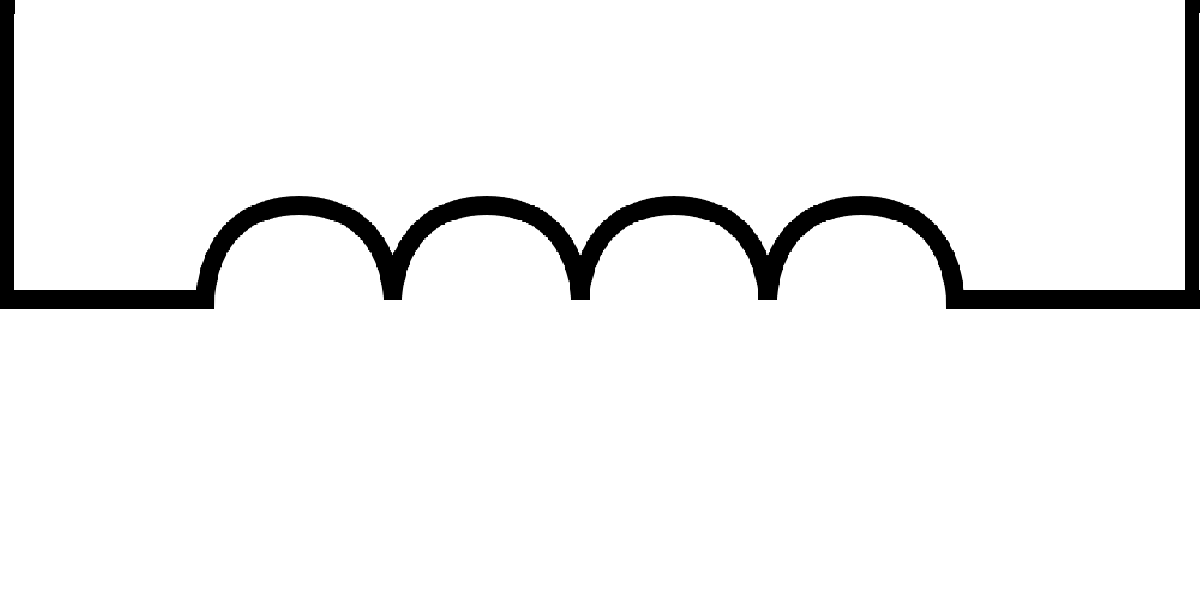
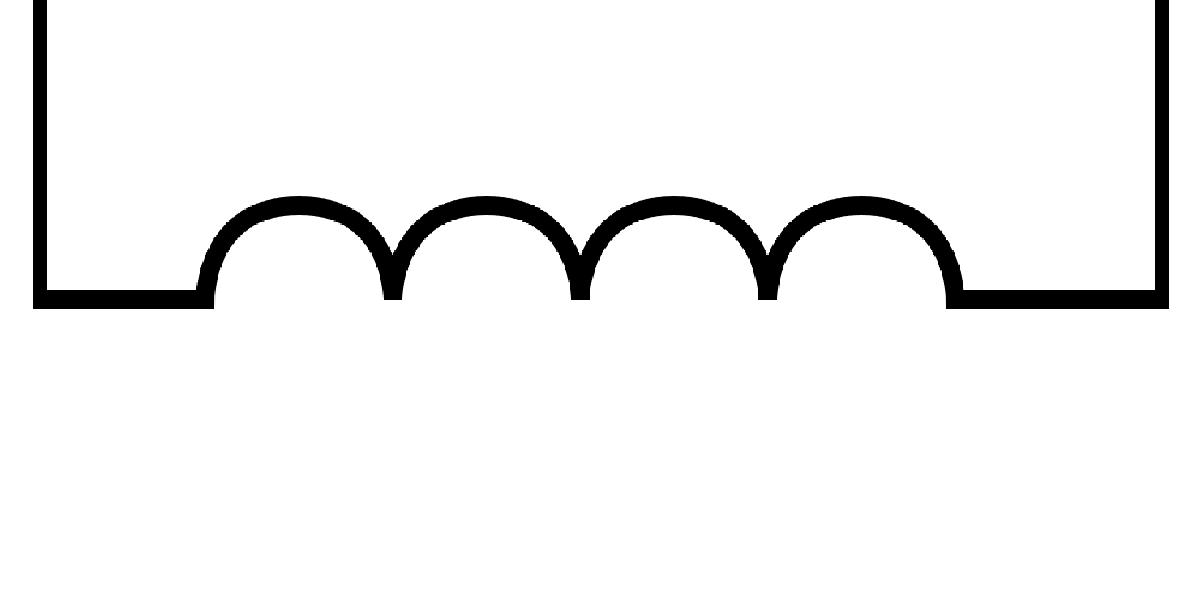
CHANGE - changement de l'affichage du circuit
/!\ problème connu, le plein ecran fonctionnent plus

Changed region(s): [[0.9558, 0.0, 1.0, 0.54], [0.0, 0.0, 0.0617, 0.54]]

diff --git a/src/main/java/polytech/univtours/greman/InfiniteImagePane.java b/src/main/java/polytech/univtours/greman/InfiniteImagePane.java
@@ -56,7 +56,24 @@ public class InfiniteImagePane extends Pane {
     }
 
     public void _addImage(String element_name, String abreviation, Slider slider,String mode) {
-        Image image = new Image("file:src/main/resources/" + element_name);
+
+        String QuelleImage = "";
+        switch (mode){
+            case"R" -> QuelleImage = "resistance.png";
+            case"L" -> QuelleImage = "bobine.png";
+            case"C" -> QuelleImage = "condensateur.png";
+            case "RL" -> {
+                if(element_name.equals("resistance.png")) QuelleImage = "resistance_b.png";
+                else QuelleImage = "bobine_b.png";
+            }
+            case"RC" -> {
+                if(element_name.equals("resistance.png")) QuelleImage = "resistance.png";
+                else QuelleImage = "condensateur.png";
+            }
+            default -> QuelleImage = "source.png";
+        }
+
+        Image image = new Image("file:src/main/resources/" + QuelleImage);
         ImageView imageView = new ImageView(image);
         imageView.setPreserveRatio(true);
         imageView.fitWidthProperty().bind(widthProperty());

diff --git a/src/main/java/polytech/univtours/greman/BluePart.java b/src/main/java/polytech/univtours/greman/BluePart.java
@@ -283,8 +283,8 @@ public class BluePart {
                         case "1,0,0" -> _ajouterResistance("R");
                         case "0,1,0" -> _ajouterBobine("L");
                         case "0,0,1" -> _ajouterCondensateur("C");
-                        case "1,1,0" -> _ajoutResistance_Condensateur();
-                        case "1,0,1" -> _ajoutResistance_Bobine();
+                        case "1,1,0" -> _ajoutResistance_Bobine();
+                        case "1,0,1" -> _ajoutResistance_Condensateur();
                         case "0,1,1" -> _ajoutBobine_Condensateur();
 
                     }
